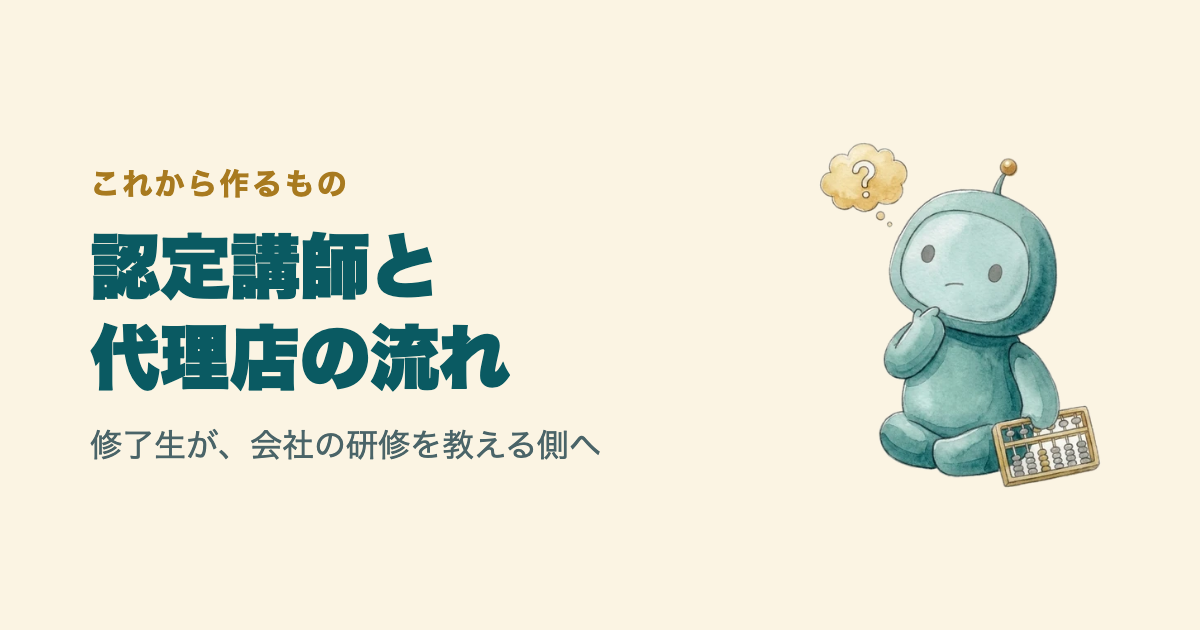
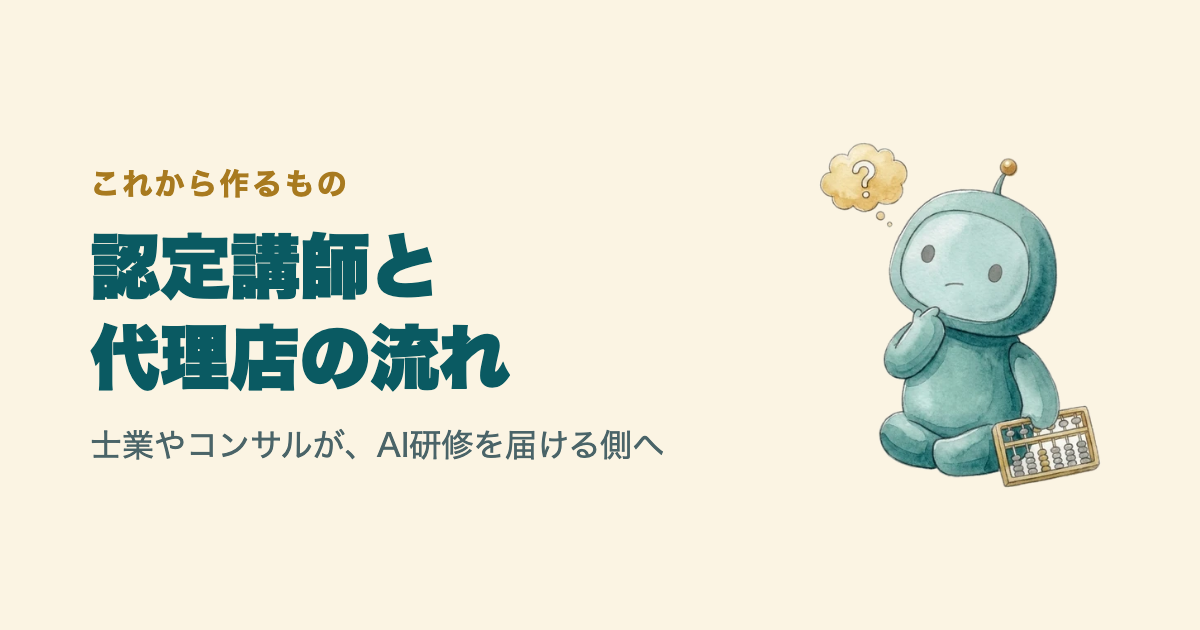
認定講師と代理店の流れ：士業・コンサル向けの構想に書き直し

Changed region(s): [[0.0617, 0.6635, 0.555, 0.754]]

diff --git a/college/index.html b/college/index.html
@@ -27,7 +27,7 @@
 </div></div>
 <div id="page" hidden></div>
 <script>
[2 lines of base64/hex data omitted]
 const b64=s=>Uint8Array.from(atob(s),c=>c.charCodeAt(0));
 const msg=document.getElementById('msg');
 async function open_(pw){

diff --git a/dairiten/index.html b/dairiten/index.html
@@ -2,9 +2,9 @@
 <html lang="ja"><head><meta charset="utf-8"><meta name="viewport" content="width=device-width,initial-scale=1,viewport-fit=cover">
 <meta name="robots" content="noindex,nofollow,noarchive">
 <title>これから作るもの：認定講師と代理店の流れ</title>
-<meta name="description" content="カレッジの修了生が、会社の研修を教える講師になる仕組み（準備中の計画）">
+<meta name="description" content="士業・弁護士・コンサルが、会社にAI研修を届ける仕組み（準備中の計画）">
 <meta property="og:title" content="これから作るもの：認定講師と代理店の流れ">
-<meta property="og:description" content="カレッジの修了生が、会社の研修を教える講師になる仕組み（準備中の計画）">
+<meta property="og:description" content="士業・弁護士・コンサルが、会社にAI研修を届ける仕組み（準備中の計画）">
 <meta property="og:url" content="https://mm738966m-boop.github.io/michi-share/dairiten/">
 <meta property="og:image" content="https://mm738966m-boop.github.io/michi-share/img/og_dairiten.png">
 <meta property="og:type" content="website">
@@ -27,7 +27,7 @@
 </div></div>
 <div id="page" hidden></div>
 <script>
[2 lines of base64/hex data omitted]
 const b64=s=>Uint8Array.from(atob(s),c=>c.charCodeAt(0));
 const msg=document.getElementById('msg');
 async function open_(pw){
